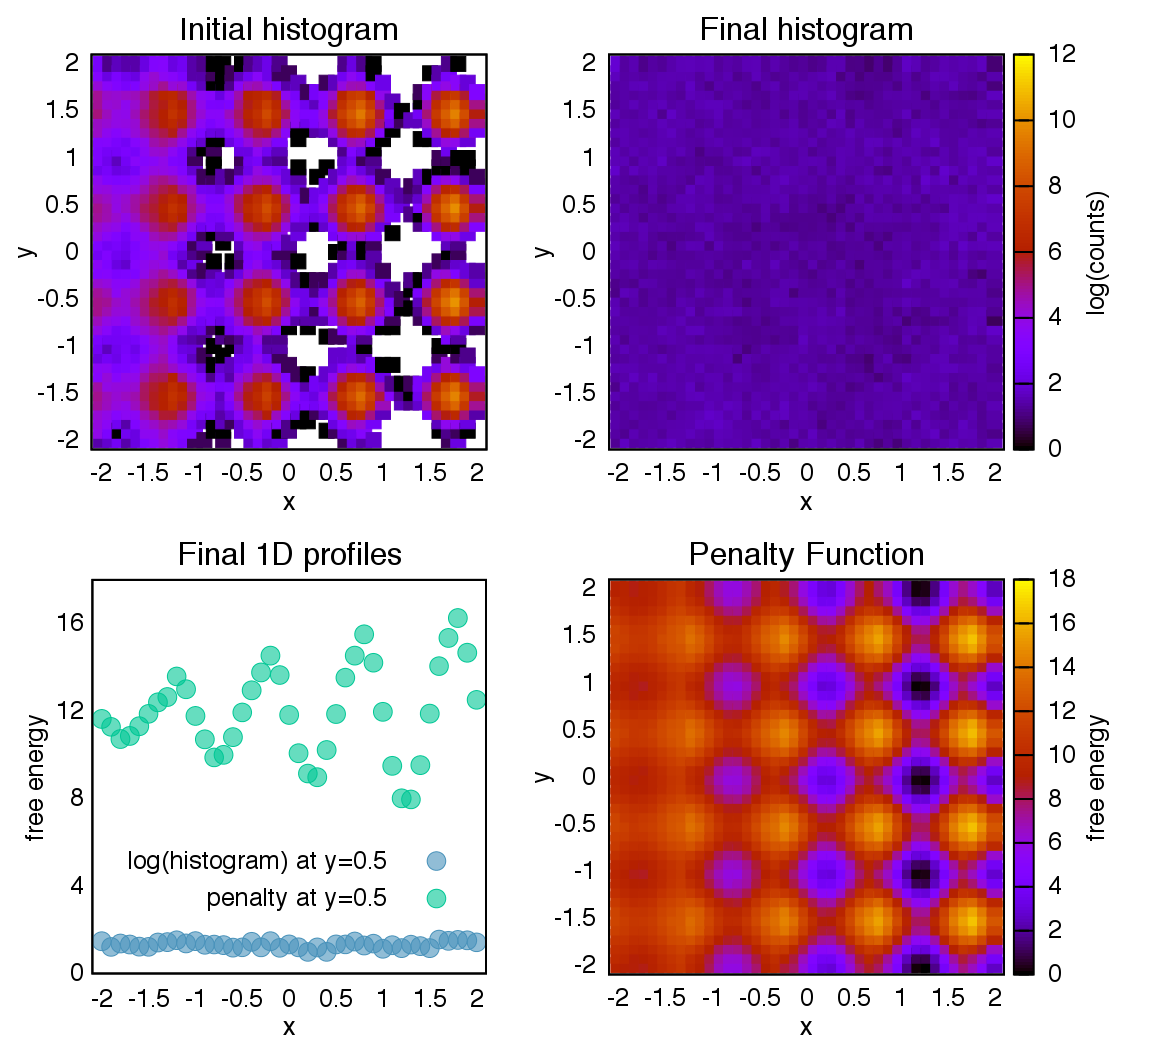
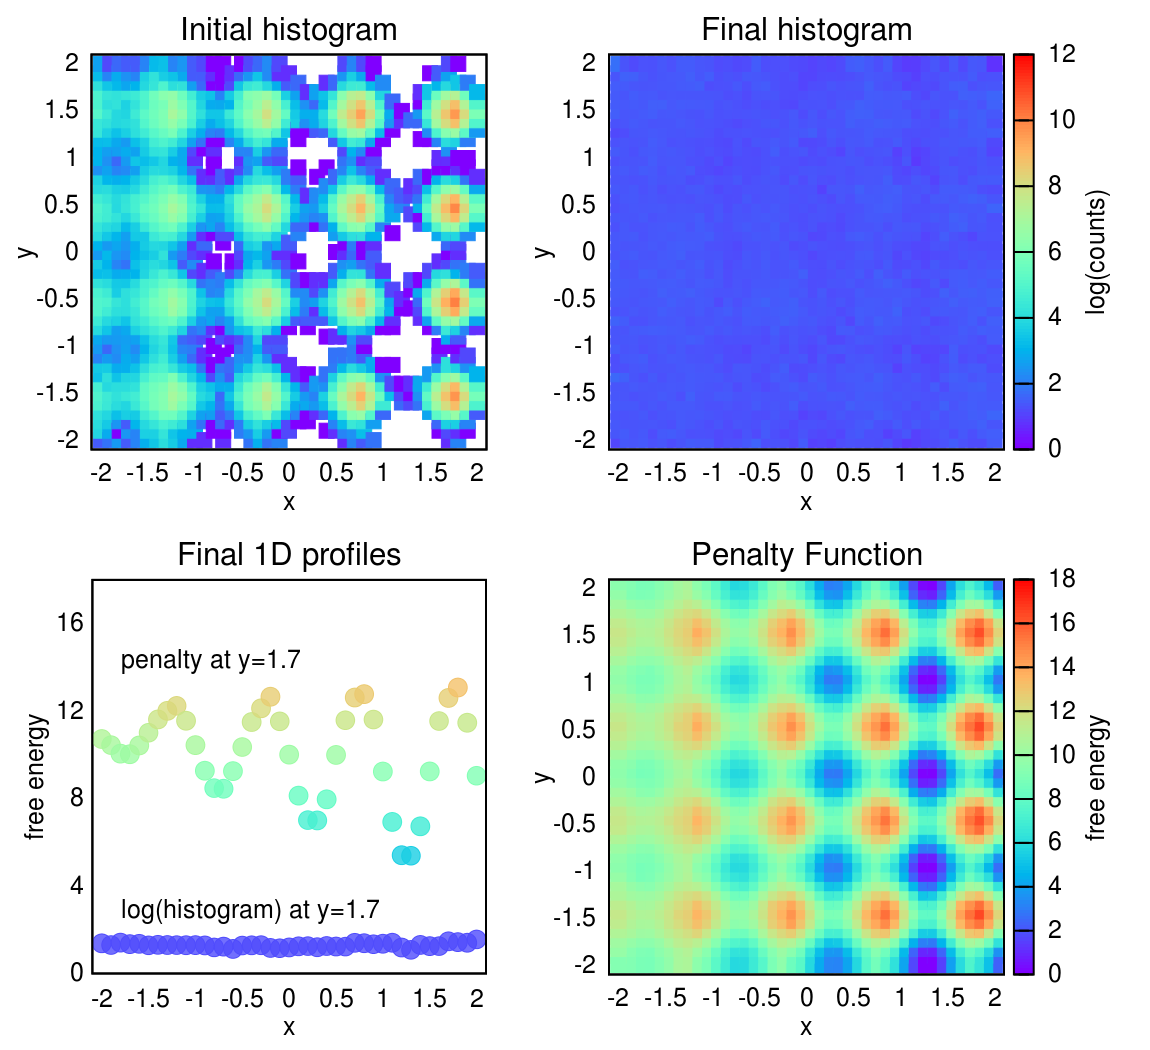
PenaltyFunction

diff --git a/include/faunus/energy.h b/include/faunus/energy.h
@@ -1526,7 +1526,6 @@ namespace Faunus {
       class ReactionCoordinateBase {
         private:
           Table<int> histo;  
-          Table<double> penalty;
 #ifdef ENABLE_MPI
           TimeRelativeOfTotal<std::chrono::microseconds> timer;
           Faunus::MPI::MPIController *mpiPtr; 
@@ -1541,6 +1540,7 @@ namespace Faunus {
           Tvec _bw, _lo, _hi, _size;
           //typedef typename Tspace::GeometryType Tgeo;
         public:
+          Table<double> penalty;
           std::pair<Tvec,Tvec> vpair;
           ReactionCoordinateBase(Tmjson &j, Tspace &s, const string &sec) {
             spc = &s;
@@ -1595,12 +1595,15 @@ namespace Faunus {
           double update(bool acceptance) {
             Tvec v;
             if (acceptance) v = vpair.first;
-            else v = vpair.second;
+            else {
+              v = vpair.second;
+              vpair.first = vpair.second;
+            }
             ++_cnt;
             _du = _f;
             penalty(v)+=_f;
             histo(v)+=1;
-            for (int i=0; i!=v.size(); ++i) {
+            for (Tvec::size_type i=0; i!=v.size(); ++i) {
               if (v[i]==0 || v[i]==_size[i]-1) {
                 _du += _f;
                 penalty(v)+=_f;
@@ -1638,6 +1641,11 @@ namespace Faunus {
             double avg = penalty.avg(limits);
             penalty.save(filename+"penalty",1.,-avg);
           }
+          /** @brief Save one row of the matrix */
+          void saveRow(const string &filename, const Tvec &limits, const Tvec &row) {
+            double avg = penalty.avg(limits);
+            penalty.saveRow(filename+"penalty",row,1.,-avg);
+          }
           /** @brief Load table to disk */
           void load(const string &filename) {
             penalty.load(filename+"penalty");
@@ -1663,8 +1671,8 @@ namespace Faunus {
           }
           double getU(Tvec& v, bool trial) {
             if (!penalty.isInRange(v)) {
-              penalty.to_index(v);
-              vpair.first = v;
+              //penalty.to_index(v);
+              //vpair.first = v;
               return 1e20;
             }
             else {
@@ -1909,11 +1917,15 @@ namespace Faunus {
             string info() { return ptr->info(); }
             void test(UnitTest &t) { ptr->test(t); }
             void load(const string &filename="") { ptr->load(filename); }
+            double currentPenalty() { return ptr->penalty(ptr->vpair.first); }
+            void saveRow(const string &filename="", const Tvec &limits={0}, const Tvec &row={0}) { 
+              ptr->saveRow(filename, limits, row); 
+            }
             void save(const string &filename="", const Tvec &limits={0}) { 
               ptr->save(filename,limits); 
             }
-            double update(bool outcome) {
-              return ptr->update(outcome);
+            double update(bool acceptance) {
+              return ptr->update(acceptance);
             }
             double external(const Tpvec &p) FOVERRIDE {
               return ptr->operator()(p,base::isTrial(p));

diff --git a/include/faunus/auxiliary.h b/include/faunus/auxiliary.h
@@ -484,11 +484,11 @@ namespace Faunus {
         }
         Tcoeff& operator()(const Tvec &v) { 
           if (v.size()==1)
-            return base::operator()(v[0]);
+            return base::operator()(v[0],0);
           else
             return base::operator()(v[0],v[1]);
         } 
-        bool isInRange(Tvec &v) {
+        bool isInRange(const Tvec &v) {
           bool b = true;
           for (Tvec::size_type i=0; i!=v.size(); ++i)
             b = b && v[i]>=_lo[i] && v[i]<=_hi[i];
@@ -514,19 +514,22 @@ namespace Faunus {
               }
           }
         }
-        Tcoeff avg(const Tvec &v) {
-          Tvec w1={_lo[0],_lo[0]}, w2={_lo[1],_lo[1]};
+        base getBlock(const Tvec &v) { // {xmin,xmax} or {xmin,xmax,ymin,ymax}
+          Tvec w={0,0,0,_cols-1.};
+          w[0] = w[1] = (v[0] - _lo[0])/_bw[0];
           if (v.size()%2==0) {
-            w1[0] = (v[0] - _lo[0])/_bw[0]; 
-            w1[1] = (v[1] - _lo[0])/_bw[0];
-            w2[0] = 0;
-            w2[1] = 0;
+            w={0,0,0,0};
+            w[0] = (v[0] - _lo[0])/_bw[0]; 
+            w[1] = (v[1] - _lo[0])/_bw[0];
           }
           if (v.size()==4) {
-            w2[0] = (v[2] - _lo[1])/_bw[1]; 
-            w2[1] = (v[3] - _lo[1])/_bw[1];
+            w[2] = (v[2] - _lo[1])/_bw[1]; 
+            w[3] = (v[3] - _lo[1])/_bw[1];
           }
-          return this->block(w1[0],w2[0],w1[1]-w1[0]+1,w2[1]-w2[0]+1);
+          return this->block(w[0],w[2],w[1]-w[0]+1,w[3]-w[2]+1); // xmin,ymin,rows,cols
+        }
+        Tcoeff avg(const Tvec &v) {
+          return this->getBlock(v).mean();
         }
         void translate(Tcoeff s) {
           *this+=base::Constant(_rows,_cols,s);
@@ -550,6 +553,26 @@ namespace Faunus {
           std::ofstream f(filename.c_str());
           f.precision(10);
           if (f) f << m;
+        }
+        void saveRow(const string &filename, const Tvec &v, Tcoeff scale=1, Tcoeff translate=0) {
+          if (this->isInRange(v)) {
+          auto b = this->getBlock(v);
+          size_t size = b.size();
+          cout << size << " SIZE" << endl;
+          Eigen::VectorXd w(size);
+          for (int i=0; i!=size; ++i)
+            w(i) = i*_bw[1] + _lo[1];
+          base m(size,2);
+          m.leftCols(1) = w;
+          m.bottomRightCorner(size,1) = b.transpose();
+          if (scale!=1) 
+            m.bottomRightCorner(size,1)*=scale;
+          if (translate!=0) 
+            m.bottomRightCorner(size,1)+=base::Constant(size,1,translate);
+          std::ofstream f(filename.c_str());
+          f.precision(10);
+          if (f) f << m;
+          }
         }
         void load(const string &filename) {
           std::ifstream f(filename.c_str());

diff --git a/src/examples/penalty.cpp b/src/examples/penalty.cpp
@@ -44,11 +44,9 @@ int main() {
   Group mygroup(myparticle.front()->front(), myparticle.back()->back());
   mygroup.setMolSize(1);
   EnergyDrift sys;                                    // class for tracking system energy drifts
-  
   // In MPI version add:
   // slump.setDiscard(mpi.rank()+1);
   penalty->load("pf_");
-
   // Markov moves
   Move::Propagator<Tspace> mv(mcp, pot, spc);
 
@@ -65,19 +63,20 @@ int main() {
   }
   auto it_min = histo.min();
   histo.save("histo"+std::to_string(histo.getMap().size()),1./it_min->second);
-  penalty->save("pf_");
+  penalty->save("pf_",{-2,-2,1.3,1.3});
+  penalty->saveRow("row_",{-2,-2,1.3,1.3},{1.7});
 
   cout << loop.info() + mv.info() + penalty->info() + sys.info();
 
   // perform unit 
-  if (penalty->update(true)) {
+  /*if (penalty->update(true)) {
   UnitTest test(mcp);
   mv.test(test);
   sys.test(test);
   penalty->test(test);
   cout << test.info();
   return test.numFailed();
-  }
+  }*/
 }
 /**
   @page example_penalty Example: Penalty Function

diff --git a/src/examples/penalty.py b/src/examples/penalty.py
@@ -12,7 +12,7 @@ def mkinput():
   "energy" : { 
     "penalty" : { 
       "plane": {
-          "molecule":"myparticle", "f0":f0, "scale":0.9, "update":2e4, "bw1":0.1, "bw2":0.1, "lo1":-2, "hi1":2, "lo2":-2, "hi2":2, "dir":"1 1 0" 
+          "molecule":"myparticle", "f0":f0, "scale":0.5, "update":1e4, "bw1":0.1, "bw2":0.1, "lo1":-2, "hi1":2, "lo2":-2, "hi2":2, "dir":"1 1 0" 
         } 
     }
   },
@@ -39,7 +39,7 @@ if ( os.access( exe, os.X_OK )):
   micro=50000
   mkinput()
   rc = call( [exe] )
-  f0=0.5
+  f0=0.1
   micro=100000
   mkinput()
   rc = call( [exe] )
